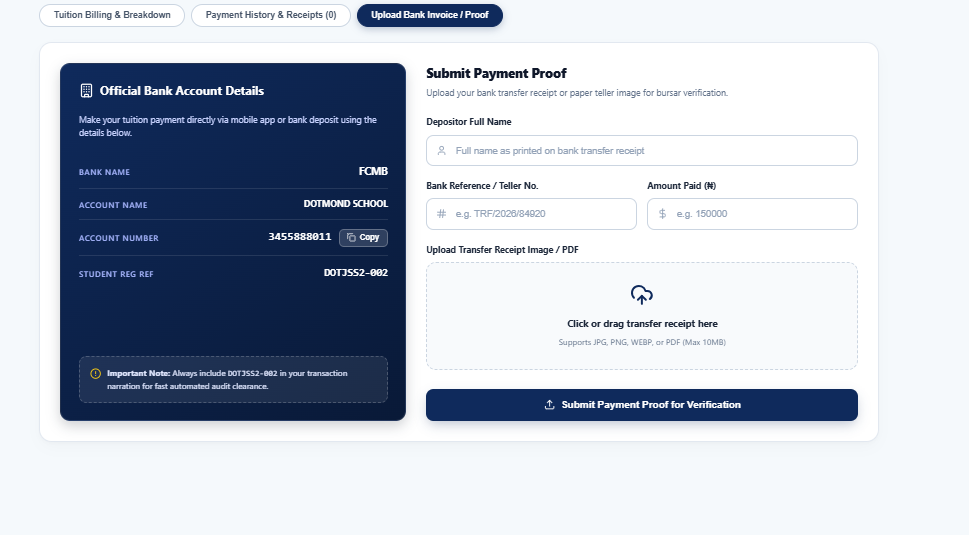
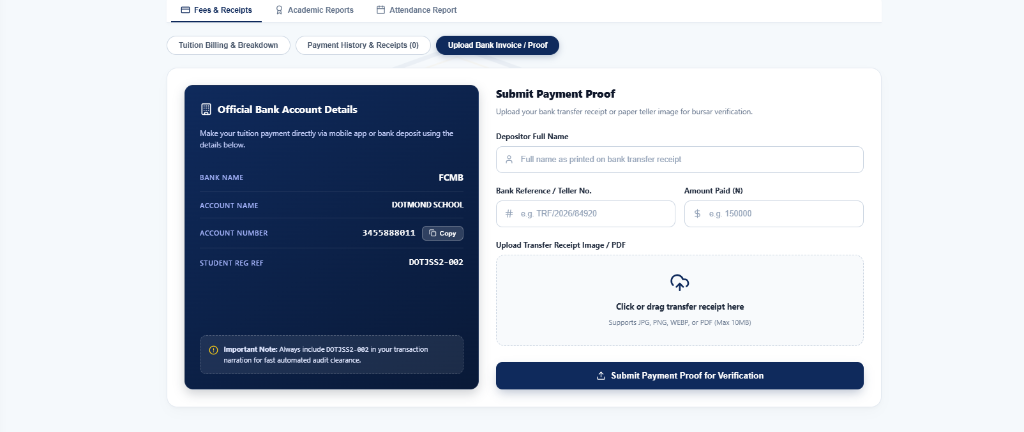
docs(manual): update Chapter 3 payment proof upload screenshot and refined step-by-step instructions in Parent User Manual

Changed region(s): [[0.0619, 0.0, 0.8978, 0.9329], [0.6811, 0.4815, 0.743, 0.5116], [0.6502, 0.5116, 0.6811, 0.5718]]

diff --git a/src/pages/dashboard/parent/ParentUserManual.tsx b/src/pages/dashboard/parent/ParentUserManual.tsx
@@ -547,7 +547,7 @@ export default function ParentUserManual() {
             </div>
 
             <p className="manual-text-block">
-              When you click on the <strong>Upload Bank Invoice / Proof</strong> sub-tab (or click the <strong>Upload Bank Proof</strong> button from your fee summary), you can view the official school bank account details, make your transfer, and submit your receipt for verification.
+              Under the <strong>Fees & Receipts</strong> tab, click on the <strong>Upload Bank Invoice / Proof</strong> sub-tab to view official school bank account details, copy the account number, and submit your payment proof for bursar verification.
             </p>
 
             {/* Form Step-by-Step Instructions */}
@@ -555,43 +555,43 @@ export default function ParentUserManual() {
               <div className="manual-step-item">
                 <div className="step-num-badge">1</div>
                 <div>
-                  <div className="step-content-title">View Official Bank Account Details</div>
-                  <div className="step-content-desc">Inspect the school's official bank name (FCMB), account name (DOTMOND SCHOOL), and click <strong>Copy</strong> next to the 10-digit account number (3455888011) to make your mobile transfer or bank deposit.</div>
+                  <div className="step-content-title">Inspect Official Bank Account Details</div>
+                  <div className="step-content-desc">Review the official school bank details on the dark left panel: <strong>Bank Name</strong> (<em>FCMB</em>), <strong>Account Name</strong> (<em>DOTMOND SCHOOL</em>), and click <strong>Copy</strong> next to the account number (<code>3455888011</code>) for your bank transfer or deposit.</div>
                 </div>
               </div>
               <div className="manual-step-item">
                 <div className="step-num-badge">2</div>
                 <div>
                   <div className="step-content-title">Include Student Reg Ref in Narration</div>
-                  <div className="step-content-desc">Always include your child's unique registration reference (e.g. <code>DOTJSS2-002</code>) in your bank transaction narration for fast automated audit clearance.</div>
+                  <div className="step-content-desc">Always include your child's unique <strong>Student Reg Ref</strong> (e.g. <code>DOTJSS2-002</code>) in your mobile app transfer narration for fast automated audit clearance.</div>
                 </div>
               </div>
               <div className="manual-step-item">
                 <div className="step-num-badge">3</div>
                 <div>
-                  <div className="step-content-title">Fill Depositor Full Name</div>
-                  <div className="step-content-desc">Type the full name as printed on your bank transfer receipt or paper teller slip.</div>
+                  <div className="step-content-title">Enter Depositor Full Name</div>
+                  <div className="step-content-desc">Type your full name as printed on your bank transfer receipt or paper deposit teller slip.</div>
                 </div>
               </div>
               <div className="manual-step-item">
                 <div className="step-num-badge">4</div>
                 <div>
                   <div className="step-content-title">Enter Bank Reference & Amount Paid (₦)</div>
-                  <div className="step-content-desc">Enter your bank reference/teller number (e.g. <code>TRF/2026/84920</code>) and the exact amount deposited (e.g. <code>150000</code>).</div>
+                  <div className="step-content-desc">Enter your bank transfer reference/teller number (e.g. <code>TRF/2026/84920</code>) and the exact amount deposited in Naira (e.g. <code>150000</code>).</div>
                 </div>
               </div>
               <div className="manual-step-item">
                 <div className="step-num-badge">5</div>
                 <div>
                   <div className="step-content-title">Upload Transfer Receipt Image / PDF</div>
-                  <div className="step-content-desc">Drag and drop or click to upload a clear image/PDF of your payment receipt (Supports JPG, PNG, WEBP, or PDF up to 10MB).</div>
+                  <div className="step-content-desc">Click or drag your payment receipt screenshot or paper teller image into the dropzone (Supports JPG, PNG, WEBP, or PDF files up to 10MB).</div>
                 </div>
               </div>
               <div className="manual-step-item">
                 <div className="step-num-badge">6</div>
                 <div>
                   <div className="step-content-title">Click "Submit Payment Proof for Verification"</div>
-                  <div className="step-content-desc">Submit your payment proof to the bursary audit queue. You can track verification status in your <strong>Payment History & Receipts</strong> sub-tab.</div>
+                  <div className="step-content-desc">Click the blue <strong>"Submit Payment Proof for Verification"</strong> button to send your receipt to the bursar audit queue. Track approval status in the <strong>Payment History & Receipts</strong> sub-tab.</div>
                 </div>
               </div>
             </div>
